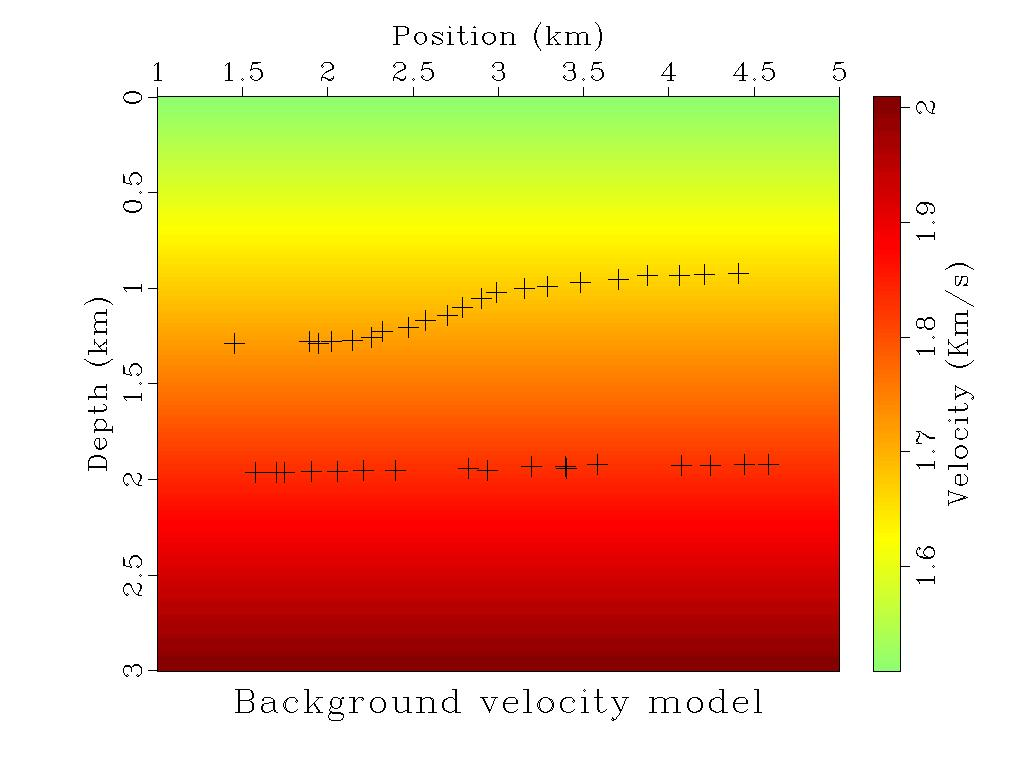
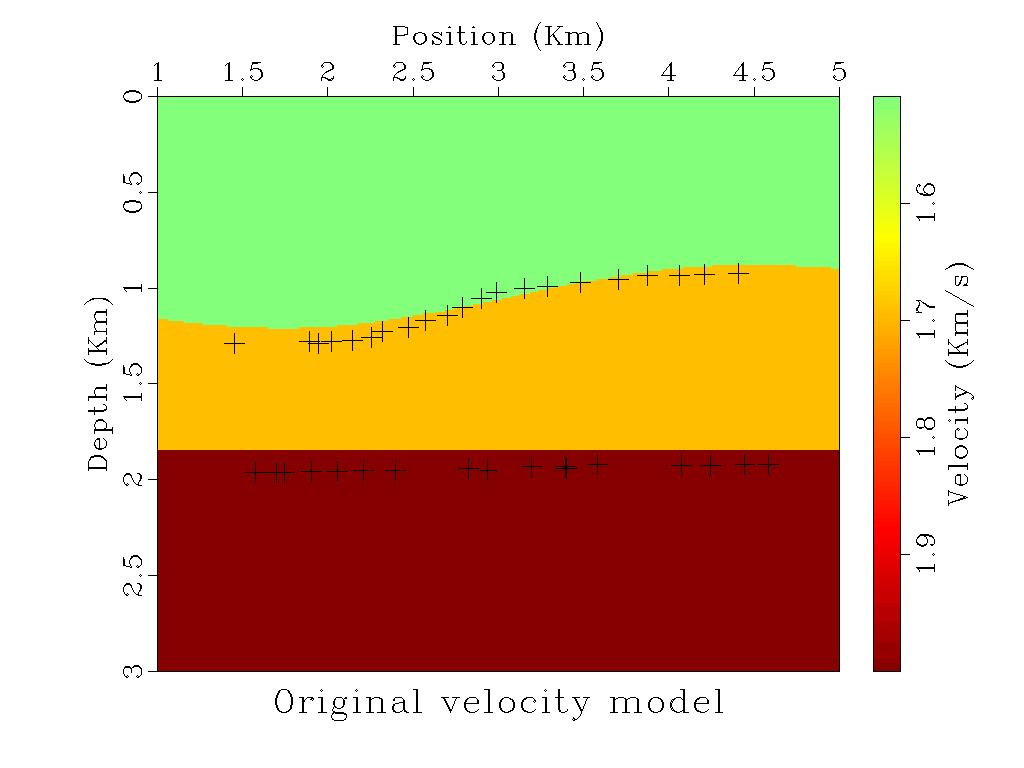
Update figures

diff --git a/inversao.tex b/inversao.tex
@@ -23,7 +23,7 @@ v(x,z)=z g_z+v_0+\delta v
 \end{figure}
 
 O modelo de velocidades é representado pela Equação \ref{eq:5.1} e a
-otimização do modelo de velocidades é realizada de forma semelhante à desenvolvida no Capítulo \ref{cap4}:
+otimização do modelo de velocidades é realizada de forma semelhante à desenvolvida no Capítulo 4:
 Utilizamos a Equação \ref{eq:2.2} da soma das diferenças nos tempos de trânsito obtidos com o tratamento de raios no modelo de velocidades e os tempos de trânsito calculados utilizando a fórmula do ERC (Equação \ref{eq:2.1}). Todavia, nesta etapa, o algoritmo Very Fast Simulated Annealing (VFSA) é utilizado para realizar a otimização das perturbações $\delta v$ do modelo de velocidades ao invés do gradiente de velocidades em
 profundidade, já obtido na etapa anterior. Estas perturbações são atualizadas a cada iteração do VFSA (Ver a estratégia completa na representação esquemática do algoritmo na Figura \ref{fig:5.1}).
 
@@ -58,11 +58,37 @@ localização das fontes PIN (cruzes em preto) sobre os refletores em profundida
 \label{fig:5.2}
 \end{figure}
 
+\begin{figure}[H]
+\caption{Resultado da localização das fontes PIN (cruzes em preto)
+para o modelo de velocidades de gradiente constante sobre o modelo de velocidades original.}
+\begin{center}
+\includegraphics[scale=0.25]{images/gzvel.jpeg}
+\vspace{-0.3cm}
+\end{center}
+\begin{center}
+ Fonte: Do Autor.
+\end{center}
+\label{fig:5.3}
+\end{figure}
+
+\begin{figure}[H]
+\caption{Resultado da localização das fontes PIN (cruzes em preto)
+para o modelo de velocidades com perturbação sobre o modelo de velocidades original.}
+\begin{center}
+\includegraphics[scale=2.1]{images/endresult.jpeg}
+\vspace{-0.3cm}
+\end{center}
+\begin{center}
+ Fonte: Do Autor.
+\end{center}
+\label{fig:5.4}
+\end{figure}
+
 O resultado desta estratégia de otimização do modelo de velocidades é apresentado na Figura \ref{fig:5.2}.
 Houve considerável melhora na localização das fontes pontuais PIN sobre os refletores (Ver
 Figura \ref{fig:5.2}, à direita) em comparação com a etapa anterior do modelo de velocidades de
-gradiente constante (Figura \ref{fig:3.4}).
+gradiente constante (Figura \ref{fig:5.3}).
 
 Estes resultados indicam que a estratégia de inversão do modelo de velocidades utilizada é promissora, porém
 que precisa ser elaborada uma melhor estratégia para a interpolação dos pontos sobre a malha do modelo de
-velocidades para suavizar o modelo (Figura \ref{eq:5.2}, à esquerda).
+velocidades e para suavizar o modelo (Figura \ref{fig:5.4}).
